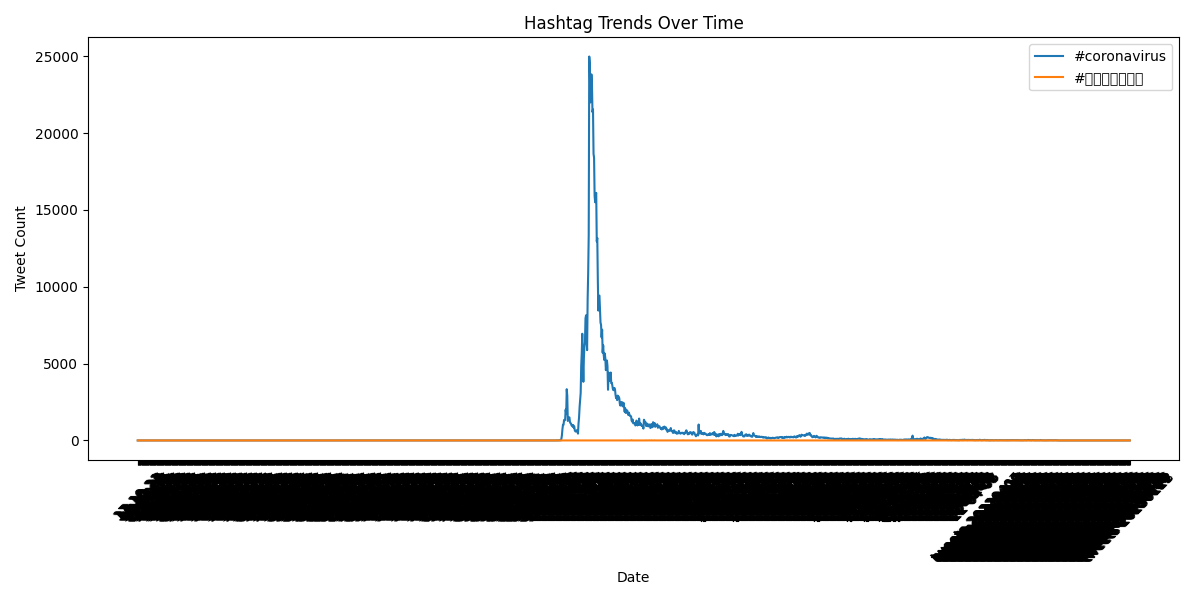
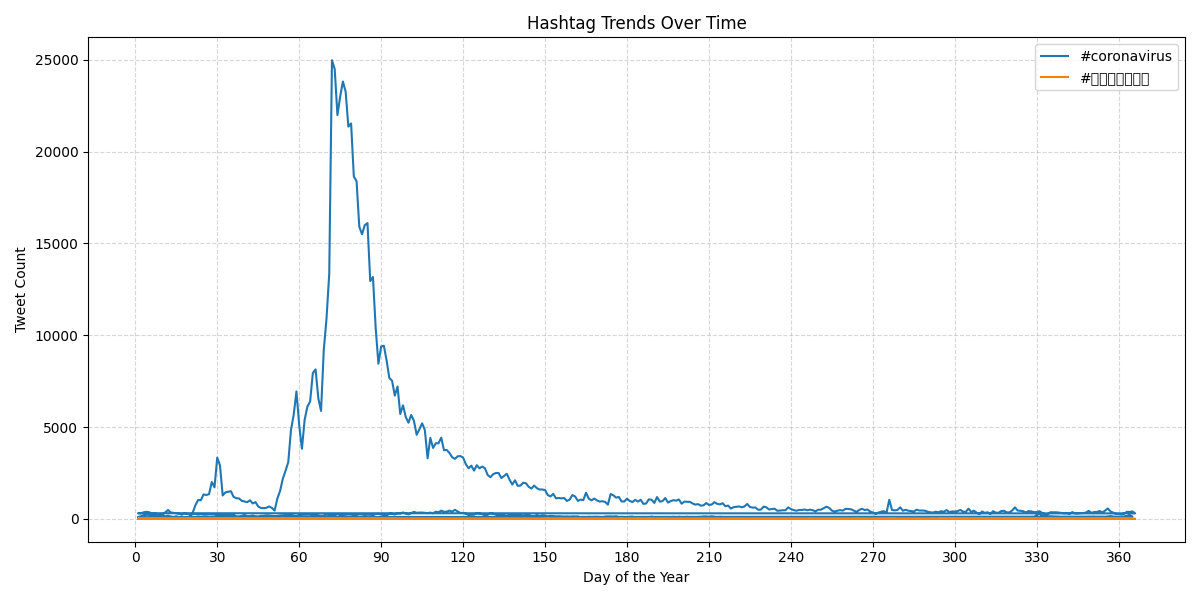
Updated alternative_reduce.py to use days of the year

diff --git a/src/alternative_reduce.py b/src/alternative_reduce.py
@@ -5,6 +5,7 @@ import json
 import matplotlib.pyplot as plt
 from collections import defaultdict
 import os
+from datetime import datetime
 
 parser = argparse.ArgumentParser()
 parser.add_argument('--hashtags', nargs='+', required=True, help='List of hashtags to track')
@@ -12,13 +13,19 @@ args = parser.parse_args()
 
 # Initialize data structure
 hashtag_counts = {hashtag: [] for hashtag in args.hashtags}
-dates = []
+days_of_year = []
 
 # Process each output file
 for filename in sorted(os.listdir('outputs')):
     if filename.endswith('.lang'):
-        date = filename.split('.')[0].replace('geoTwitter', '')
-        dates.append(date)
+        date_str = filename.split('.')[0].replace('geoTwitter', '')  # Extract date (e.g., '20-01-01')
+
+        # Convert to day of the year
+        try:
+            day_of_year = datetime.strptime(date_str, "%y-%m-%d").timetuple().tm_yday
+            days_of_year.append(day_of_year)
+        except ValueError:
+            continue  # Skip files with invalid dates
 
         with open(os.path.join('outputs', filename), 'r') as f:
             data = json.load(f)
@@ -30,13 +37,15 @@ for filename in sorted(os.listdir('outputs')):
 # Plotting
 plt.figure(figsize=(12, 6))
 for hashtag, counts in hashtag_counts.items():
-    plt.plot(dates, counts, label=hashtag)
+    plt.plot(days_of_year, counts, label=hashtag)
 
-plt.xlabel('Date')
+plt.xlabel('Day of the Year')
 plt.ylabel('Tweet Count')
 plt.title('Hashtag Trends Over Time')
-plt.xticks(rotation=45)
+plt.xticks(ticks=range(0, 366, 30), labels=[str(i) for i in range(0, 366, 30)])  # Show ticks every 30 days
 plt.legend()
+plt.grid(True, linestyle="--", alpha=0.5)
 plt.tight_layout()
 plt.savefig('hashtag_trends.png')
 print("Plot saved as hashtag_trends.png")
+
